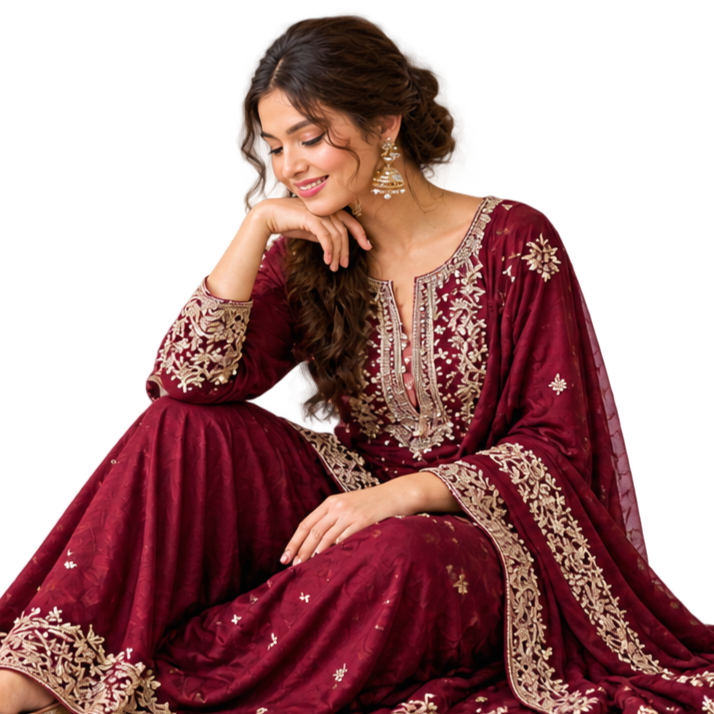
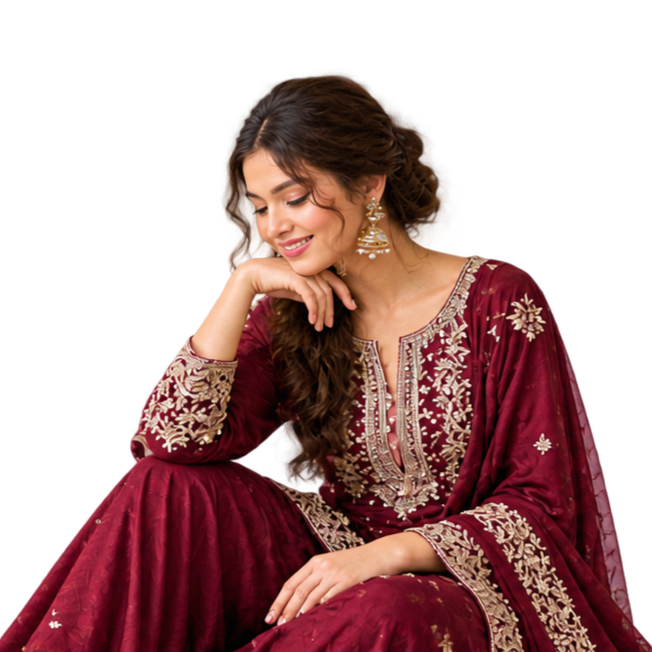
LC

diff --git a/frontend/src/components/home/FashionBanner.jsx b/frontend/src/components/home/FashionBanner.jsx
@@ -2,7 +2,7 @@ import { Link } from "react-router-dom";
 import { motion } from "framer-motion";
 import { FaArrowRight } from "react-icons/fa";
 import "./FashionBanner.css";
-import banner from "../../assets/fashionbanner2.jpg";
+import banner from "../../assets/fashionbanner2.png";
 
 const FashionBanner = () => {
   return (

diff --git a/frontend/src/components/home/Hero.jsx b/frontend/src/components/home/Hero.jsx
@@ -1,5 +1,5 @@
 import { Link } from "react-router-dom";
-import heroImage from "../../assets/girl.jpg";
+import heroImage from "../../assets/girl.png";
 import "./Hero.css";
 
 export default function Hero() {
